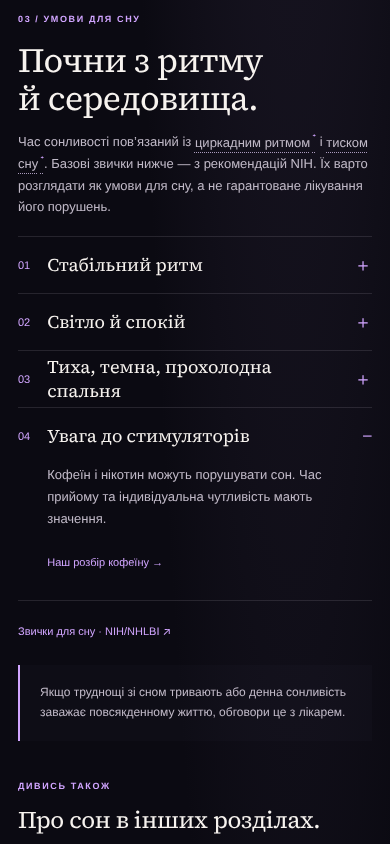
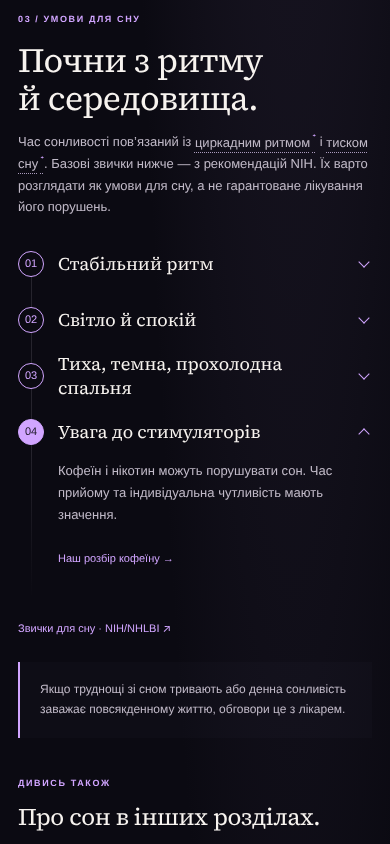
Правила: шаблонність і функціональність (CLAUDE.md п. 9), оцінка нових елементів сторінки сну
CLAUDE.md, п. 9 стандарту якості: два параметри для кожного нового елемента (оцінка пишеться в PR),
чотири питання про шаблонність і критерії функціональності. docs/SLEEP-MOVEMENT-MODULES.md: чесна
оцінка схеми, звичок, «Дивись також» і кнопки в шапці. Оновлені знімки звичок (рейка, три теми).

Claude-Session: https://claude.ai/code/session_01J29vQU3hAFNqfd2NxjB8zo

diff --git a/docs/SLEEP-MOVEMENT-MODULES.md b/docs/SLEEP-MOVEMENT-MODULES.md
@@ -56,7 +56,7 @@ Owner request: «Роби все що перечислив для правок»
 
 So the page is **not shorter** than before: on a phone tightening the existing sections saved about 190 px (−0.2 screen), while the scheme and the related block added about 675 and the hero button 26 (net +507 px, +0.6 screen). Without the two new blocks the phone page would be ≈ 7.0 screens (−0.2). The earlier estimate of «≈ 5 screens» was optimistic and is withdrawn. What was deliberately *not* done: the source links next to explanations were not removed (editorial rule «Джерело поруч із поясненням»), and the shared blocks (learning notes 776 px, next steps 417 px, footer) are not touched in a sleep-only change. Further reduction needed an owner decision; the owner chose to shorten, and the habit cards were folded (see the follow-up below).
 
-**Follow-up «1 так» (2026-11-09): habit cards fold on a phone.** The owner answered «1 так» to «shorter on a phone?» with two options on the table. Working out the real row heights showed that the first, «Дивись також» in one row, saves almost nothing (the 2 × 2 grid is already about as compact as a one-column list: an estimated −0.05 screen, not the −0.4 first guessed; the second option was measured on a scratch copy: −337 px), so only the second was built: up to 600 px each habit card becomes a row «number + title» with a button, the text opens on a tap. Markup stays static (`<h3>title</h3><div class="habit-body" id="habit-body-N">text</div>`, wording unchanged and pinned by a test); `mountHabits` in `src/sleep/page.mjs` puts a `<button aria-expanded aria-controls>` inside the `h3` (the APG accordion pattern: a heading stays a heading) and hides the body with `hidden`. Without JavaScript, on a computer and on paper (`!important`, because the site hides every `[hidden]` element with `!important`) everything is shown as before; the script follows the width in both directions and forgets what was opened. Rows are ≥ 56 px, independent of each other, keyboard-operable (Enter, Space) with the site's focus ring.
+**Follow-up «1 так» (2026-11-09): habit cards fold on a phone.** The owner answered «1 так» to «shorter on a phone?» with two options on the table. Working out the real row heights showed that the first, «Дивись також» in one row, saves almost nothing (the 2 × 2 grid is already about as compact as a one-column list: an estimated −0.05 screen, not the −0.4 first guessed; the second option was measured on a scratch copy: −337 px), so only the second was built: up to 600 px each habit card becomes a row «number + title» with a button, the text opens on a tap. After the owner's remark about templateness (below) the rows are drawn as a «rail» instead of the stock accordion with «＋» signs: round numbered nodes joined by a hairline (the language of the night scheme: row lines and the cursor dot), an open node is filled like the scheme's cursor, a thin chevron turns over; the node number comes from a CSS counter and is decorative for a screen reader. Markup stays static (`<h3>title</h3><div class="habit-body" id="habit-body-N">text</div>`, wording unchanged and pinned by a test); `mountHabits` in `src/sleep/page.mjs` puts a `<button aria-expanded aria-controls>` inside the `h3` (the APG accordion pattern: a heading stays a heading) and hides the body with `hidden`. Without JavaScript, on a computer and on paper (`!important`, because the site hides every `[hidden]` element with `!important`) everything is shown as before; the script follows the width in both directions and forgets what was opened. Rows are ≥ 56 px, independent of each other, keyboard-operable (Enter, Space) with the site's focus ring.
 
 | Width | After the first PR | With folded habits | Original (before the sleep upgrade) |
 |---|---|---|---|
@@ -64,7 +64,16 @@ So the page is **not shorter** than before: on a phone tightening the existing s
 | 360 × 780 | 6726 px (8.6) | 6369 px (8.2) | 6213 px (8.0) |
 | 1440 × 900 | 4862 px (5.4) | 4862 px (5.4, unchanged) | 4413 px (4.9) |
 
-So the phone page is now 0.2 screen longer than before the upgrade, which is the scheme (+305 px) and the related block (+370 px) that the owner asked for, less what the tightening and the folded habits took back. Tests: `tests/sleep-habits.test.mjs` (markup and wording, fold/unfold, independent taps, breakpoint crossing both ways, no state left half open; each rule checked by breaking the code), Browser QA `sleepHabitsFlow` at 390, 360 and 1440 (row sizes, hidden texts, tap and keyboard, print, resizing both ways without a reload, chapter link, no JavaScript, no errors). Screenshots: `docs/screenshots/sleep-upgrade/habits-*.png`.
+So the phone page is now 0.2 screen longer than before the upgrade, which is the scheme (+305 px) and the related block (+370 px) that the owner asked for, less what the tightening and the folded habits took back. **Templateness and functionality (owner's requirement, 2026-11-09).** The owner asked to take into account the parameter of templateness («ШІ-сайти легко відрізнити по шаблонності») together with functionality; the criterion and its questions are item 9 of the quality standard in `CLAUDE.md`. Honest rating of what the sleep upgrade added:
+
+| Element | Templateness | Functionality | Verdict |
+|---|---|---|---|
+| Night scheme | low: own drawing grown from the page's data, motion and cursor, the language of lines and bars | high: pause, a chosen stage stops it, keyboard, stills off screen and with reduced motion. Weak spot: the rows are not tappable (the text says «Обери стадію», the buttons are below the scheme) | keep; making the rows tappable is a pending owner decision |
+| Habit rows on a phone | was high (stock accordion with «＋»), now medium-low: the rail echoes the scheme | high on a phone (−0.4 screen), everything open on a computer; cost: up to four taps to read all four habits | rail built in this change |
+| «Дивись також» tiles | high: the generic «label + title + arrow» card grid | medium: plain navigation to existing material | pending owner decision (a rail-style list is possible) |
+| Hero button «Джерела й межі ↓» | medium: an ordinary outlined button | high: one control instead of three tiny links | keep |
+
+Tests: `tests/sleep-habits.test.mjs` (markup and wording, fold/unfold, independent taps, breakpoint crossing both ways, no state left half open; each rule checked by breaking the code), Browser QA `sleepHabitsFlow` at 390, 360 and 1440 (row sizes, hidden texts, tap and keyboard, print, resizing both ways without a reload, chapter link, no JavaScript, no errors). Screenshots: `docs/screenshots/sleep-upgrade/habits-*.png`.
 
 **Accessibility review (WCAG 2.1 AA, `design:accessibility-review`, run in Chromium).** Found and fixed: the N1 bars had contrast 2.4:1 (< 3:1, SC 1.4.11), so the ramp became .48/.74/1 and the REM colour was re-tuned (see colours above); the decorative arrow of a related link was read as part of the link name, now it has an empty text alternative (`content: '…' / ''`, with a plain fallback). Checked and fine: a pause control for the moving cursor (SC 2.2.2) that is the first stop of the scheme, the scheme starts paused under `prefers-reduced-motion` and stands still off the screen; every control shows a 2 px focus ring and the tab order is hero button → chapters → term links → play/pause → stage buttons → … → related links; the scheme is a `figure` named by its caption with one `img` description, the moving label is `aria-live="off"`, the button's name changes between «Пауза» and «Відтворити»; no overflow at 320 px, nor at the site's larger text sizes (the site scales them with `zoom`); tap targets ≥ 44 px. Not tested: a real screen reader (VoiceOver, TalkBack, NVDA).
 

diff --git a/CLAUDE.md b/CLAUDE.md
@@ -25,6 +25,7 @@
 6. **Використовувати все доступне.** Скіли та інструменти середовища (наприклад `design:design-critique`, `design:accessibility-review`, `dataviz`, Browser QA, PubMed для джерел). Зробити акуратно й до пуття, а не мінімумом.
 7. **Перевірка перед «готово».** Усі тести, Browser QA на двох в'юпортах, скриншоти до/після. Не заявляти, що перевірено те, чого не запускали. Живу плавність на пристрої власника я не бачу, про це чесно сказати.
 8. **Тести разом із змінами.** Нова поведінка має власний тест. Якщо тест змінюється, пояснити в коментарі чому.
+9. **Шаблонність і функціональність (вимога власника, 2026-11-09; раніше він писав: «ШІ-сайти легко відрізнити по шаблонності, нам треба забути про неї»).** Кожен новий елемент оцінюємо за двома параметрами й пишемо оцінку («Шаблонність: низька/середня/висока», «Функціональність: …») у тілі PR. *Шаблонність висока*, якщо це стандартний компонент без власної ідеї: акордеон із «＋», плитки «мітка + заголовок + стрілка», підписи в рамках, схожі на кнопки, однакові сітки карток, декор без функції. Перевірка: (а) чи елемент виростає з механізму чи даних саме цієї сторінки, а не з бібліотеки компонентів; (б) чи показує він те, чого текстом не скажеш; (в) чи говорить він мовою сторінки (лінії, смуги, курсор, засічки, палітра); (г) чи втратила б сторінка щось без нього. Якщо на (а)–(г) «ні»: переробити або прибрати. *Функціональність*: що людина може зробити чи зрозуміти завдяки елементу; працює з клавіатурою, дотиком, без JavaScript, у друку, без руху; цілі не менші за 44 px; головний текст не ховається без потреби; стан не губиться. Ці два параметри йдуть разом із пунктами 1–8, а не замість них.
 
 ## Технічні уроки цього проєкту
 
@@ -52,7 +53,7 @@
 - Сторінка «Про проєкт» і спільне застереження (рішення власника «давай 1, 2, 3», 2026-11-03): `dist/about.html` має шість розділів з якорями `ab-*` і пише лише те, що можна перевірити за самим сайтом; імен, посад і кваліфікацій автора на ній немає, поки власник їх не надасть (нічого не вигадувати). Внизу кожної сторінки стоїть один рядок застереження «Матеріал освітній і не є персональною медичною рекомендацією.» з посиланням «Про проєкт»: текст лежить в одному місці, `src/platform/site-notice.mjs`, а збірка (`scripts/build-platform.mjs`) вставляє його в кожен `dist/*.html` перед кінцевими порожніми `<script>` (повторний запуск нічого не змінює; на нову сторінку застереження стане само). Стилі `dist/site-notice.css` без власних кольорів. Твердження сторінки прив’язані до коду тестом `tests/about-page.test.mjs`: коли на сайті з’явиться лічильник відвідувачів, форма Formspree, записаний науковий перегляд чи інша адреса хостингу, тест зупиняє збірку, доки не оновлено розділи «Приватність» і «Стан наукового перегляду». Опис і межі: `docs/ABOUT_AND_NOTICE.md`.
 - Жодних сторонніх запитів до явного кліку користувача. Жодної особистої пошти в коді.
 - Схема ночі на сторінці «Сон і відновлення» (рішення власника 34–37, 2026-11-09): дані й геометрія в `src/sleep/night.mjs` (чистий модуль без DOM), нерухому розмітку з нього вставляє збірка між позначками `EUA_SLEEP_NIGHT_START/END` у `dist/sleep.html`, а `dist/sleep-night.js` це згенерована копія (піднімати `?v=` в імпорті `sleep.js` у `scripts/build-platform.mjs`). Схема умовна: лише те, що вже сказано на сторінці за NIH/NHLBI (стадії чергуються, N3 зазвичай більше на початку ночі, REM ближче до ранку), без часів і чисел. Змінив дані чи кольори: збірка двічі, тести `sleep-night*` і QA `sleepNightFlow` перевіряють і дані, і різницю кольорів у двох палітрах. Правила кольору та вимір висоти: `docs/SLEEP-MOVEMENT-MODULES.md`.
-- Картки звичок на сторінці «Сон» на телефоні (до 600 px) згортає JavaScript (`mountHabits` у `src/sleep/page.mjs`, рішення власника «1 так», 2026-11-09): розмітка статична з `.habit-body` (слова не змінювати), без JavaScript, на комп’ютері й у друку все видно. Урок: на сайті діє загальне `[hidden]{display:none!important}`, тому щоб показати схований елемент у друку, правило мусить мати `!important`; а будь-яке «ховання» робити лише скриптом, не CSS, щоб без скрипта текст не пропадав.
+- Картки звичок на сторінці «Сон» на телефоні (до 600 px) згортає JavaScript (`mountHabits` у `src/sleep/page.mjs`, рішення власника «1 так», 2026-11-09); вигляд «рейка» (вузли-кружки з номером із лічильника CSS, лінія між ними, шеврон), а не стандартний акордеон з плюсами (вимога про шаблонність): розмітка статична з `.habit-body` (слова не змінювати), без JavaScript, на комп’ютері й у друку все видно. Урок: на сайті діє загальне `[hidden]{display:none!important}`, тому щоб показати схований елемент у друку, правило мусить мати `!important`; а будь-яке «ховання» робити лише скриптом, не CSS, щоб без скрипта текст не пропадав.
 
 ## Безпека змісту
 
